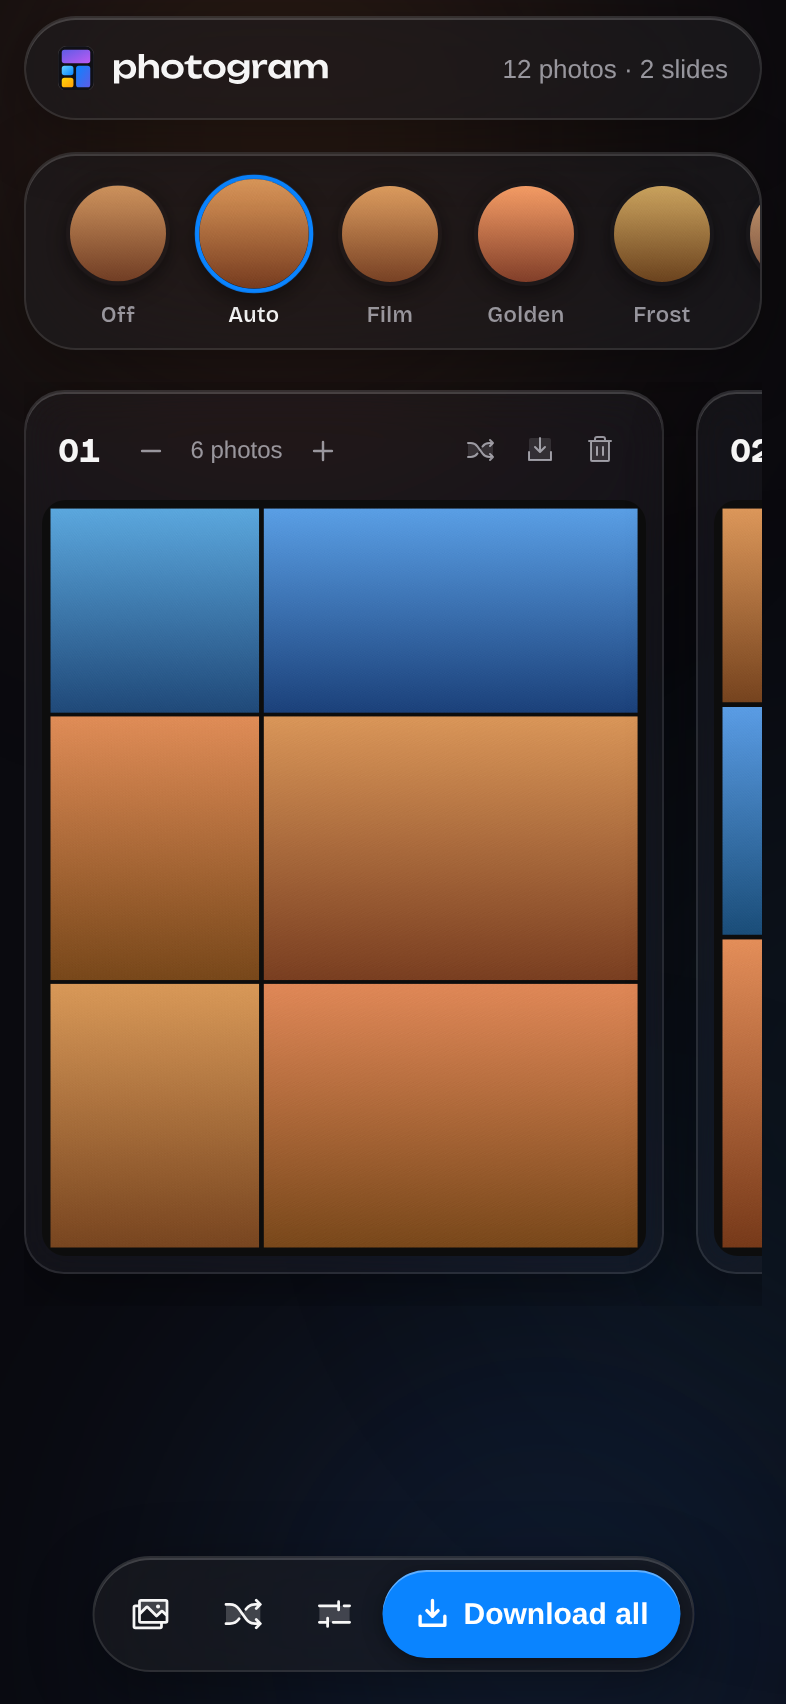
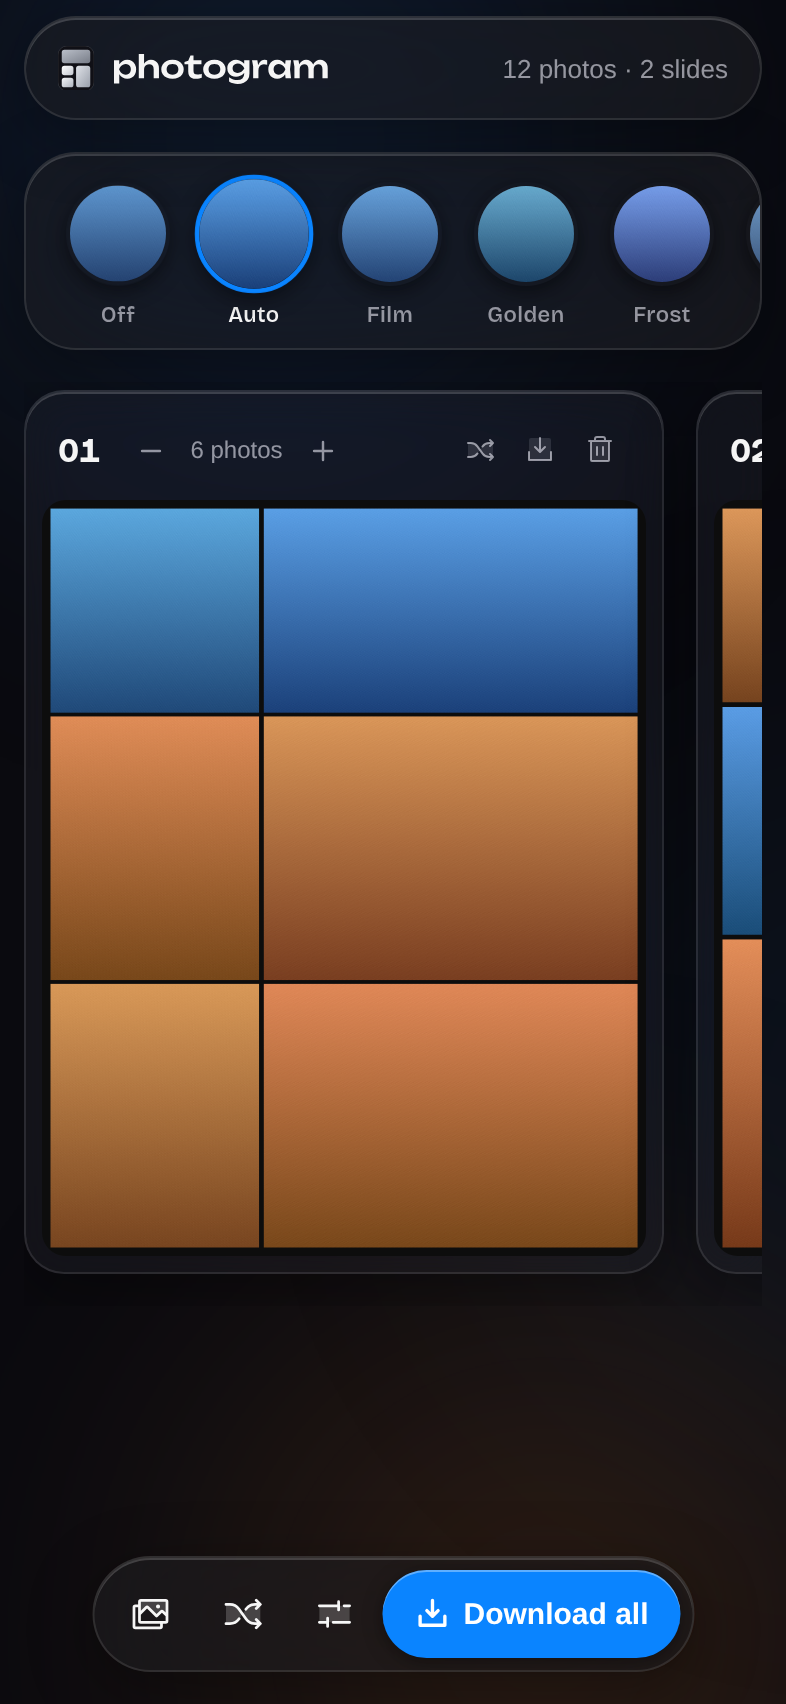
Silver brand: monotone wordmark and mark with a shine
Retire the teal→purple gradient. The banner wordmark is now a metallic
white-to-grey vertical gradient with a narrow gloss band sweeping the
letterforms; the logo tiles (banner, header, favicon) go monotone
silver, carried by value contrast instead of hue. Generators updated,
assets regenerated, screenshots refreshed.

Claude-Session: https://claude.ai/code/session_018Xpc9SxxA8oQpCyf6Z7jv9

diff --git a/src/components/Logo.jsx b/src/components/Logo.jsx
@@ -7,7 +7,7 @@ export default function Logo({ size = 20 }) {
       height={size * 1.25}
       viewBox="0 0 96 120"
       aria-hidden="true"
-      dangerouslySetInnerHTML={{ __html: "<defs><linearGradient id=\"lg0\" x1=\"0\" y1=\"0\" x2=\"1\" y2=\"1\"><stop offset=\"0\" stop-color=\"#64d2ff\"/><stop offset=\"1\" stop-color=\"#0a84ff\"/></linearGradient><linearGradient id=\"lg1\" x1=\"0\" y1=\"0\" x2=\"1\" y2=\"1\"><stop offset=\"0\" stop-color=\"#0a84ff\"/><stop offset=\"1\" stop-color=\"#5e5ce6\"/></linearGradient><linearGradient id=\"lg2\" x1=\"0\" y1=\"0\" x2=\"1\" y2=\"1\"><stop offset=\"0\" stop-color=\"#5e5ce6\"/><stop offset=\"1\" stop-color=\"#bf5af2\"/></linearGradient><linearGradient id=\"lg3\" x1=\"0\" y1=\"0\" x2=\"1\" y2=\"1\"><stop offset=\"0\" stop-color=\"#ffd60a\"/><stop offset=\"1\" stop-color=\"#ff9f0a\"/></linearGradient></defs><rect width=\"96\" height=\"120\" rx=\"24\" fill=\"#101016\"/><rect width=\"96\" height=\"120\" rx=\"24\" fill=\"none\" stroke=\"rgba(255,255,255,0.14)\" stroke-width=\"2\"/><rect x=\"10.0\" y=\"10.0\" width=\"76.0\" height=\"35.8\" rx=\"7\" fill=\"url(#lg2)\"/><rect x=\"48.2\" y=\"52.8\" width=\"37.8\" height=\"57.2\" rx=\"7\" fill=\"url(#lg1)\"/><rect x=\"10.0\" y=\"84.9\" width=\"31.2\" height=\"25.1\" rx=\"7\" fill=\"url(#lg3)\"/><rect x=\"10.0\" y=\"52.8\" width=\"31.2\" height=\"25.1\" rx=\"7\" fill=\"url(#lg0)\"/>" }}
+      dangerouslySetInnerHTML={{ __html: "<defs><linearGradient id=\"lg0\" x1=\"0\" y1=\"0\" x2=\"1\" y2=\"1\"><stop offset=\"0\" stop-color=\"#ffffff\"/><stop offset=\"1\" stop-color=\"#c3c7cf\"/></linearGradient><linearGradient id=\"lg1\" x1=\"0\" y1=\"0\" x2=\"1\" y2=\"1\"><stop offset=\"0\" stop-color=\"#dfe2e8\"/><stop offset=\"1\" stop-color=\"#9aa0ab\"/></linearGradient><linearGradient id=\"lg2\" x1=\"0\" y1=\"0\" x2=\"1\" y2=\"1\"><stop offset=\"0\" stop-color=\"#b9bec8\"/><stop offset=\"1\" stop-color=\"#787d88\"/></linearGradient><linearGradient id=\"lg3\" x1=\"0\" y1=\"0\" x2=\"1\" y2=\"1\"><stop offset=\"0\" stop-color=\"#f4f5f7\"/><stop offset=\"1\" stop-color=\"#aeb3bd\"/></linearGradient></defs><rect width=\"96\" height=\"120\" rx=\"24\" fill=\"#101016\"/><rect width=\"96\" height=\"120\" rx=\"24\" fill=\"none\" stroke=\"rgba(255,255,255,0.14)\" stroke-width=\"2\"/><rect x=\"10.0\" y=\"10.0\" width=\"76.0\" height=\"35.8\" rx=\"7\" fill=\"url(#lg2)\"/><rect x=\"48.2\" y=\"52.8\" width=\"37.8\" height=\"57.2\" rx=\"7\" fill=\"url(#lg1)\"/><rect x=\"10.0\" y=\"84.9\" width=\"31.2\" height=\"25.1\" rx=\"7\" fill=\"url(#lg3)\"/><rect x=\"10.0\" y=\"52.8\" width=\"31.2\" height=\"25.1\" rx=\"7\" fill=\"url(#lg0)\"/>" }}
     />
   )
 }
